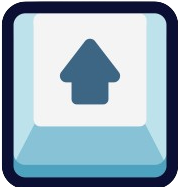
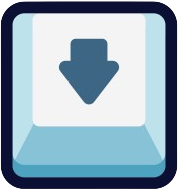
Alteração HTML e IMGS

diff --git a/index.html b/index.html
@@ -95,12 +95,12 @@
                 -- Atirar --</h5>
                 </div>
                 <div class="movercima">
-                <img src="IMG/seta pra baixo.png." alt="Seta para Cima">
+                <img src="IMG/seta pra cima .png" alt="Seta para Cima">
                 <h5> Seta para cima <br>
                     -- Mover para cima --</h5>
                 </div>
                 <div class="moverbaixo">
-                <img src="IMG/seta pra cima.png." alt="Seta para baixo">
+                <img src="IMG/seta pra baixo.png." alt="Seta para baixo">
                 <h5>Seta para baixo <br>
                     -- Mover para baixo --</h5>
                 </div>
